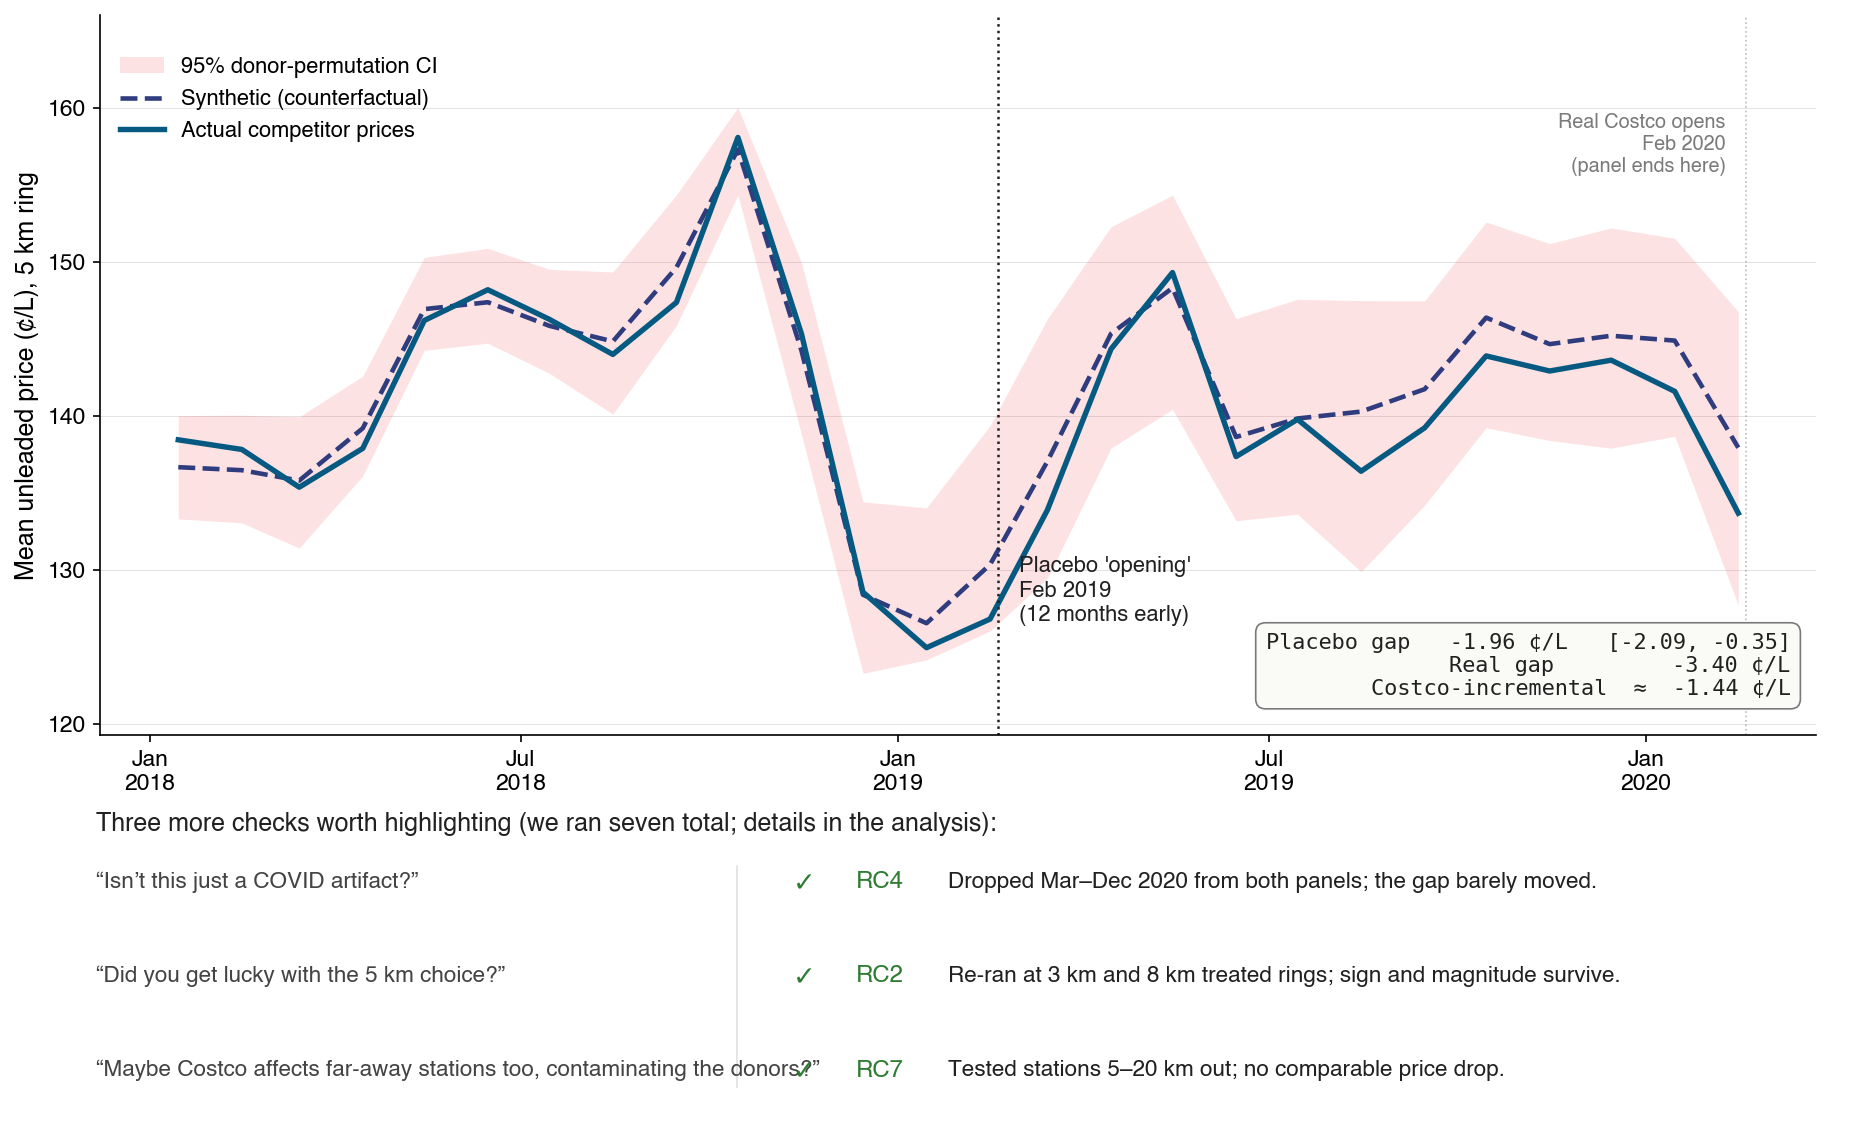
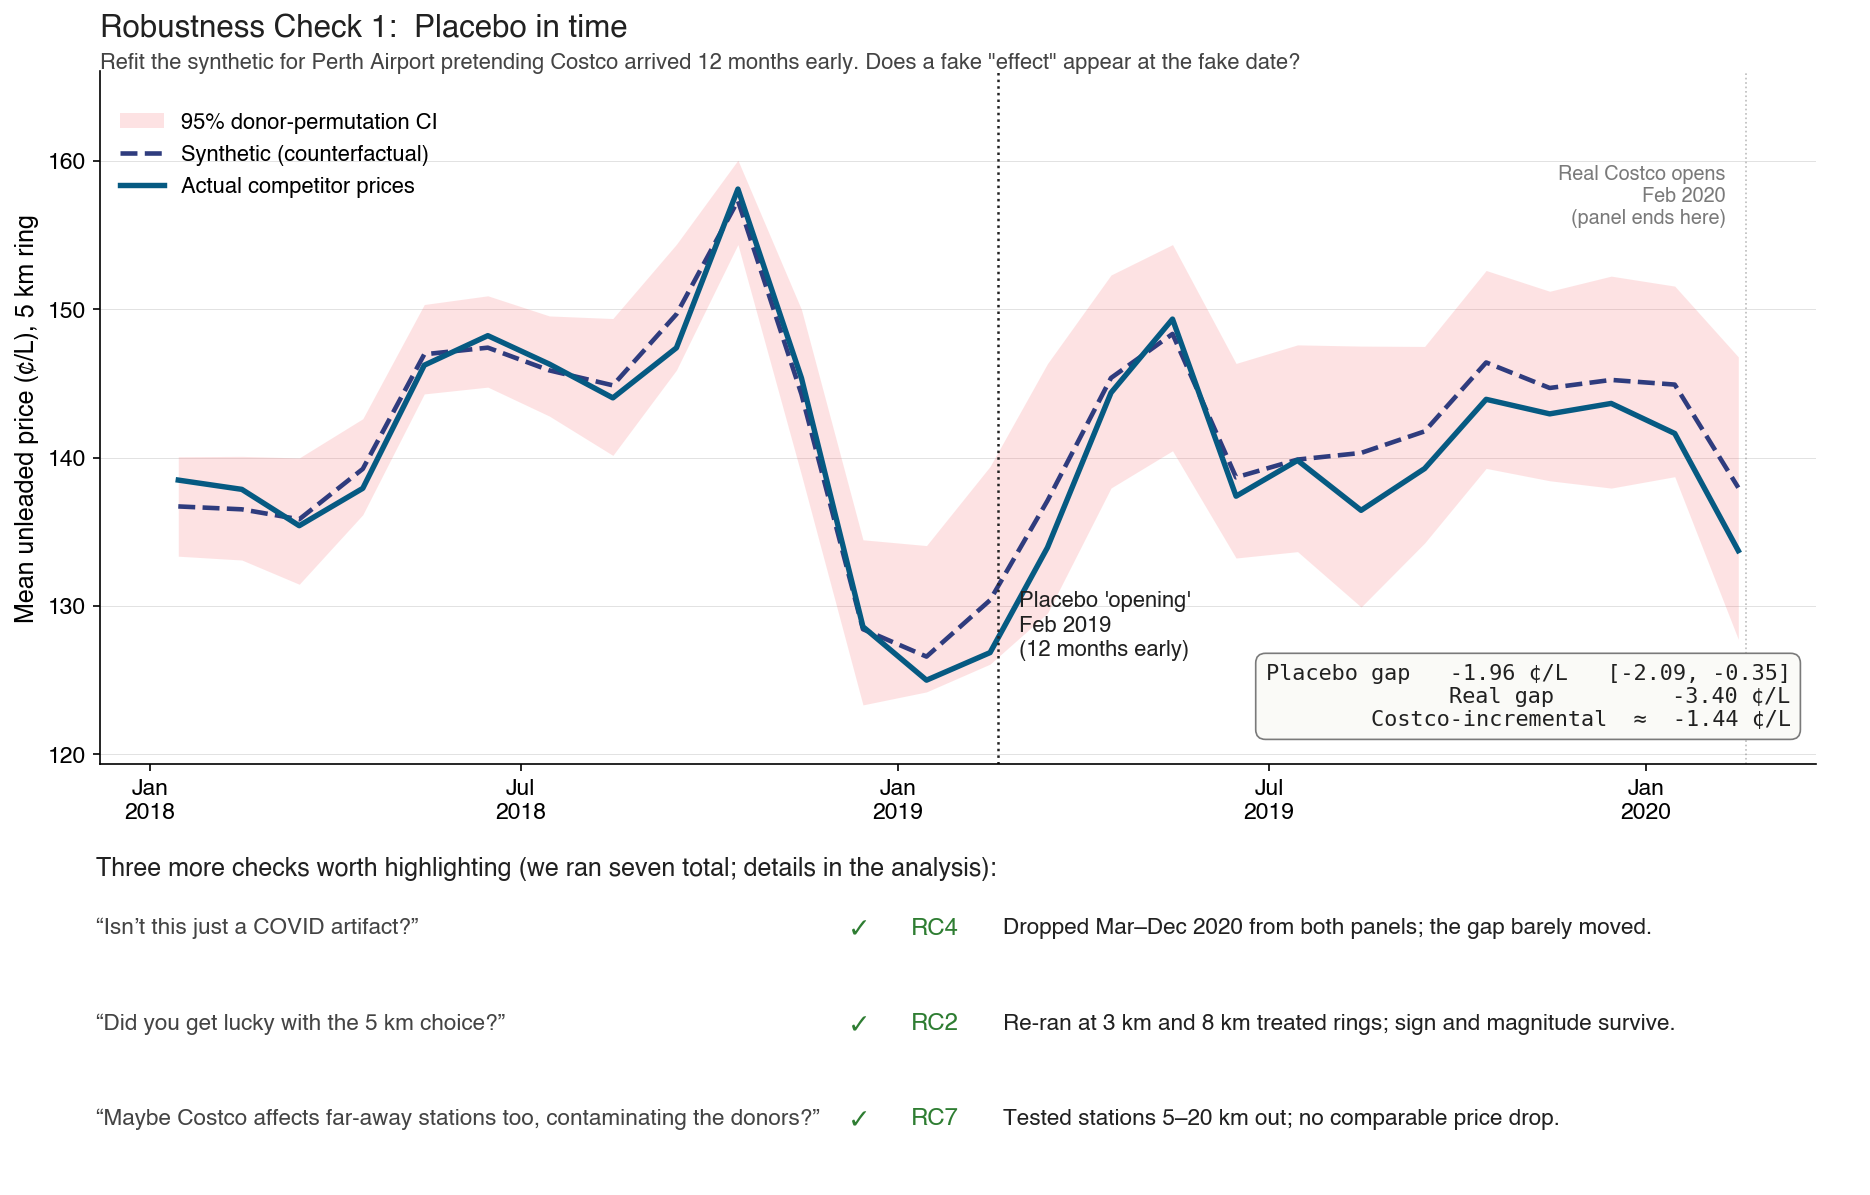
fix slide 11 plot

diff --git a/presentation/scripts/build_placebo_robustness.py b/presentation/scripts/build_placebo_robustness.py
@@ -68,12 +68,27 @@ real_gap  = float(effects.loc["Perth Airport", "mean_post_gap_cents"])
 costco_incremental = real_gap - mean_placebo_gap
 
 # ---- Figure layout ---------------------------------------------------
-fig = plt.figure(figsize=(13, 8.0))
-ax_main  = fig.add_axes([0.07, 0.36, 0.88, 0.60])
-ax_strip = fig.add_axes([0.03, 0.03, 0.94, 0.28])
+fig = plt.figure(figsize=(13, 8.4))
+ax_main  = fig.add_axes([0.07, 0.36, 0.88, 0.55])
+ax_strip = fig.add_axes([0.03, 0.03, 0.94, 0.27])
 ax_strip.set_xlim(0, 1)
 ax_strip.set_ylim(0, 1)
 ax_strip.axis("off")
+
+# Plot title — names the specific robustness check on display
+fig.text(
+    0.07, 0.955,
+    "Robustness Check 1:  Placebo in time",
+    ha="left", va="top",
+    fontsize=15, fontweight="bold", color=COL_TEXT,
+)
+fig.text(
+    0.07, 0.925,
+    "Refit the synthetic for Perth Airport pretending Costco arrived 12 months early. "
+    "Does a fake \"effect\" appear at the fake date?",
+    ha="left", va="top",
+    fontsize=10.5, color=COL_ANNOT, style="italic",
+)
 
 # ---- Main panel: placebo trajectory ---------------------------------
 ax_main.fill_between(
@@ -187,17 +202,13 @@ bot_y    = 0.18
 row_step = (top_y - bot_y) / (n - 1) if n > 1 else 0
 row_ys   = [top_y - i * row_step for i in range(n)]
 
-# Column anchors
+# Column anchors. No vertical rule separator — the colored RC chip
+# already visually divides the concern column from the answer column,
+# and a rule was clipping the long concern in row 3.
 X_CONCERN = 0.04   # left edge of italic question
-X_CHECK   = 0.42   # checkmark glyph
-X_RC      = 0.455  # RC label
-X_FIND    = 0.505  # finding text
-
-# Faint vertical separator between concern column and answer column
-ax_strip.plot(
-    [0.39, 0.39], [bot_y - 0.05, top_y + 0.05],
-    color="#E0E0E0", lw=0.8,
-)
+X_CHECK   = 0.45   # checkmark glyph
+X_RC      = 0.485  # RC label
+X_FIND    = 0.535  # finding text
 
 for y, check in zip(row_ys, checks):
     # Concern (italic gray, the question someone might ask)
